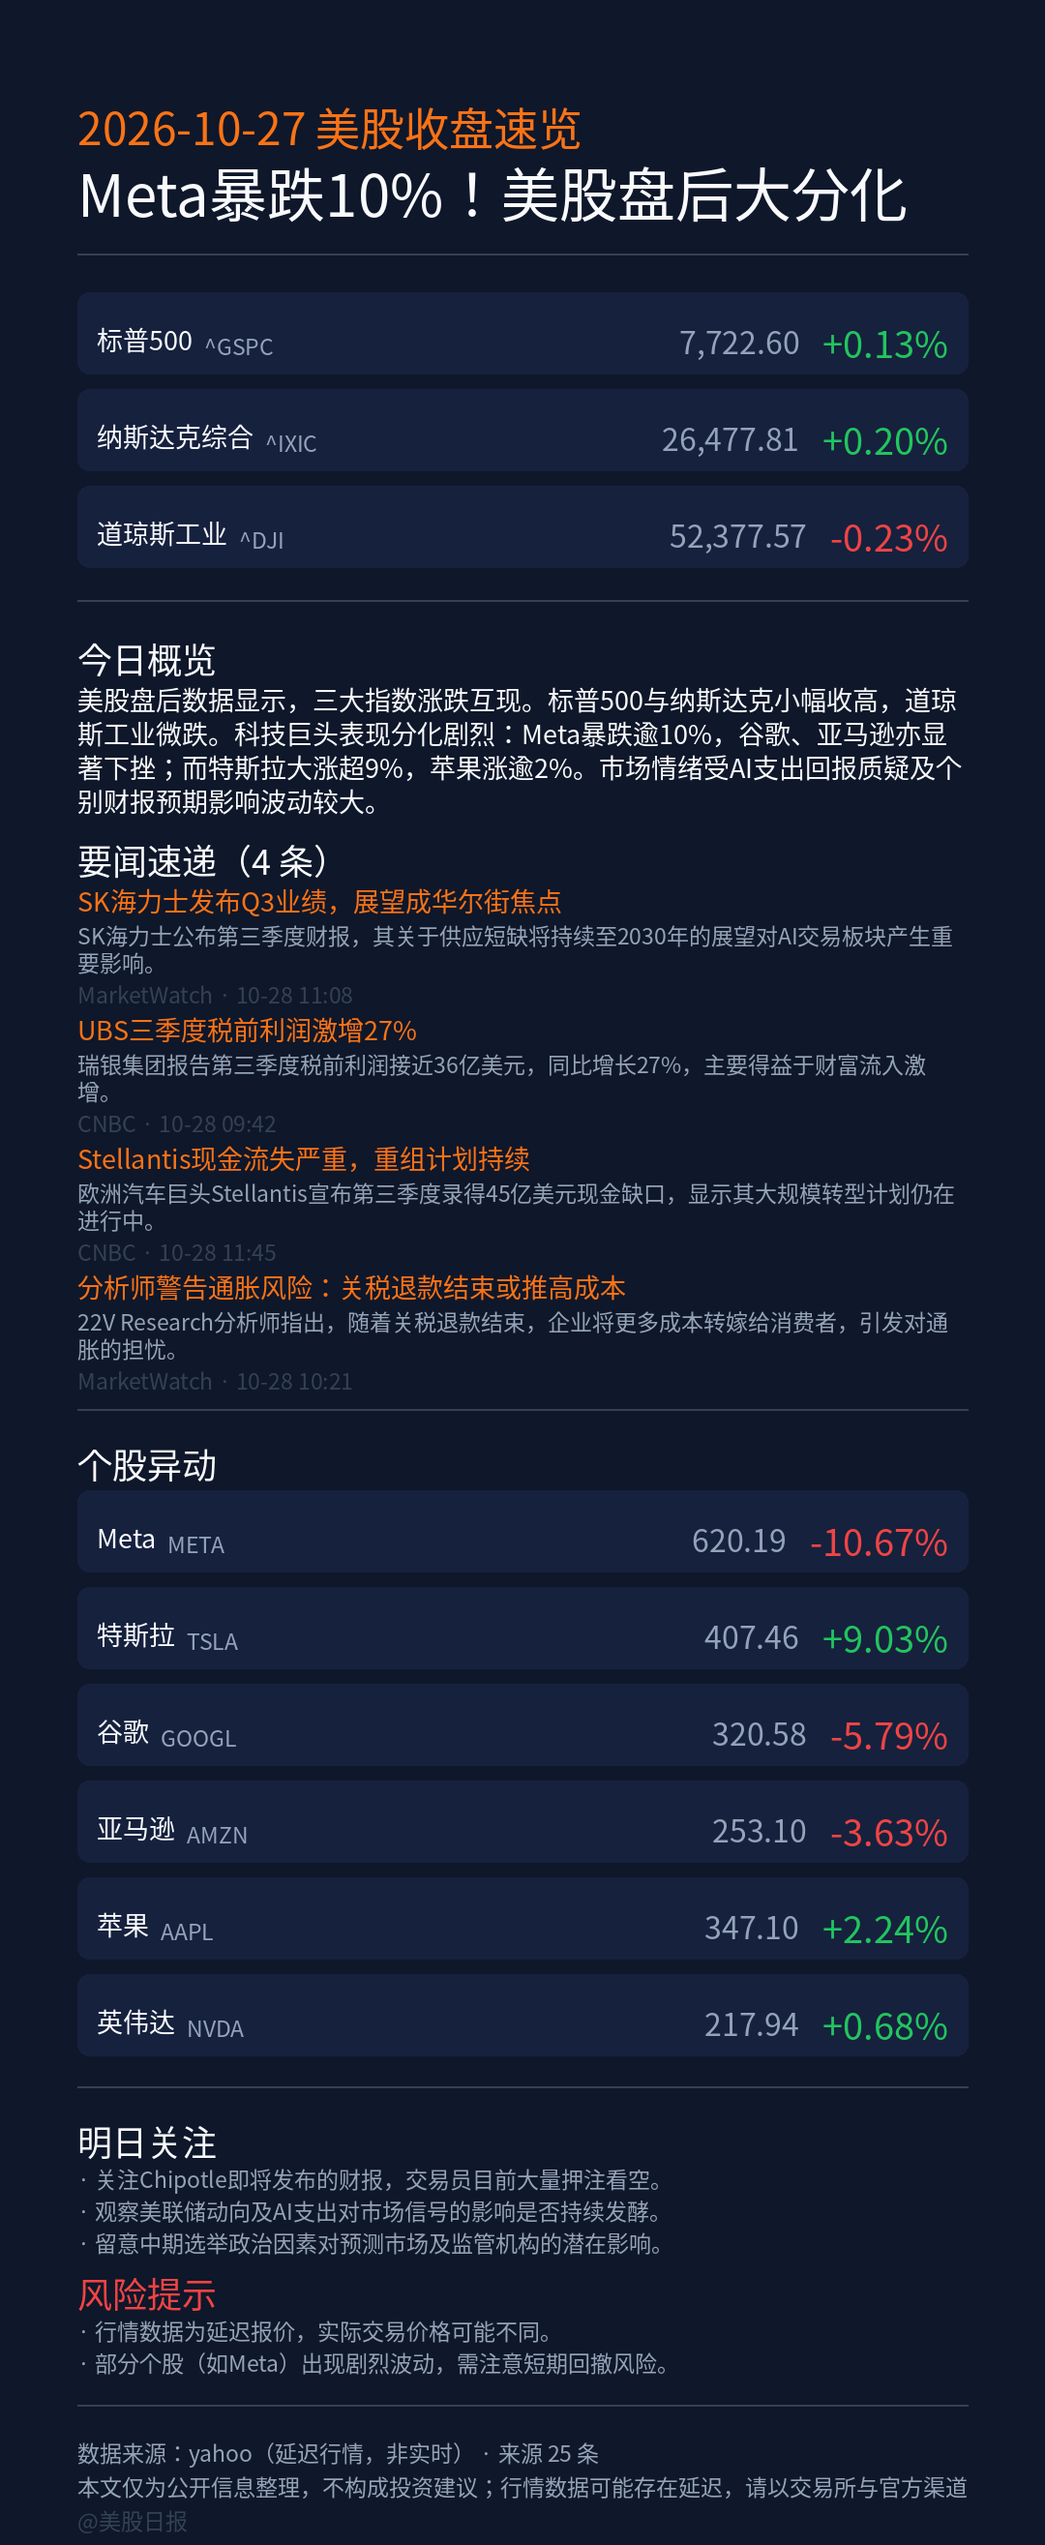
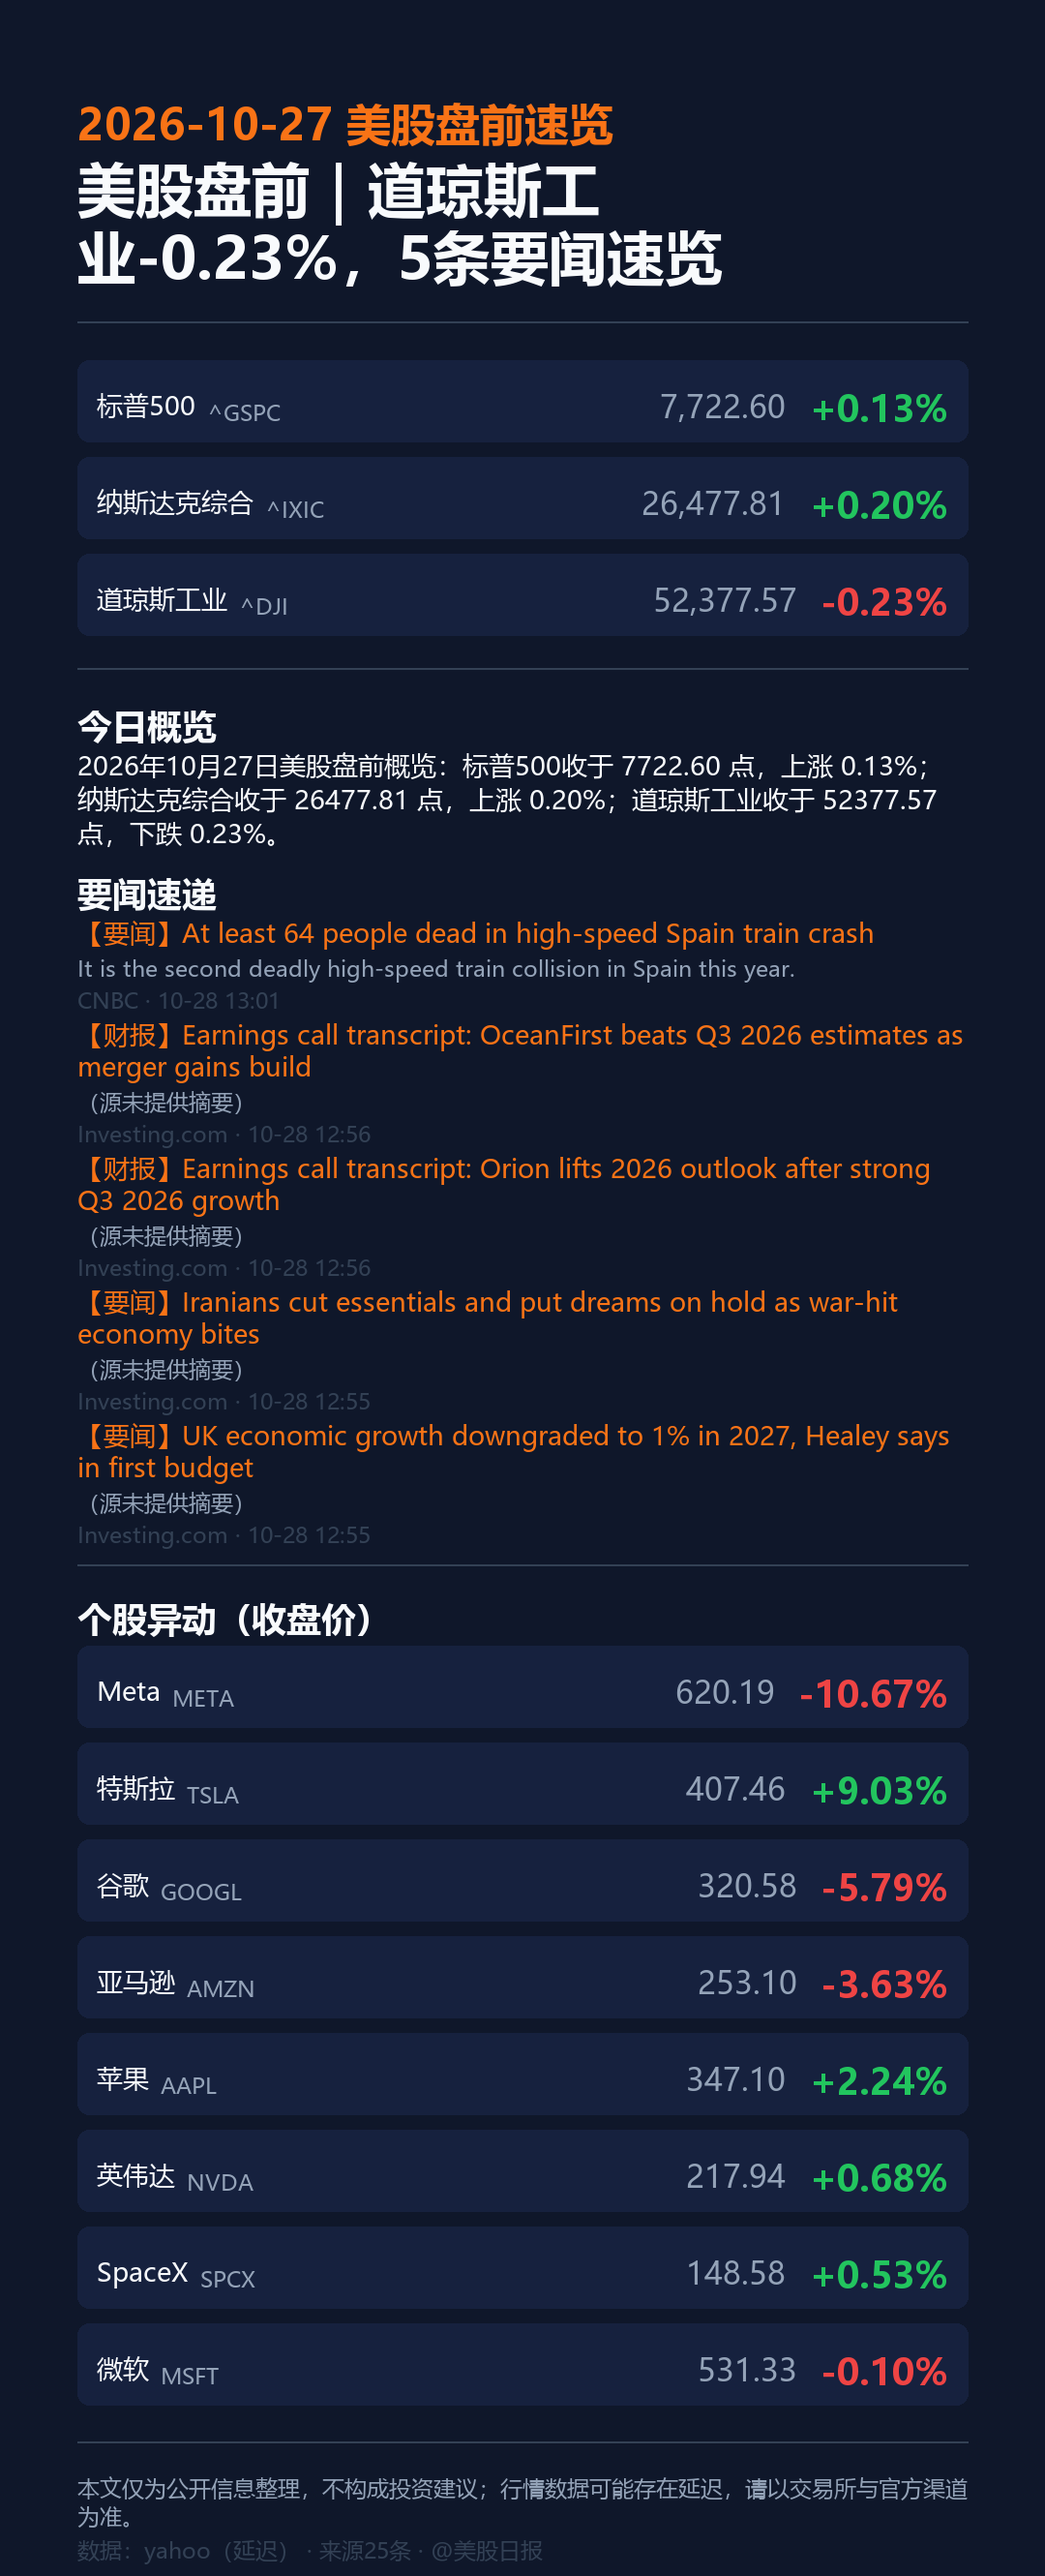
fix: SpaceX 已上市（NASDAQ: SPCX），替换占位代码并实测行情
- Yahoo 搜索确认 SPCX = Space Exploration Technologies（NASDAQ）
- 实测行情 SPCX 148.58 (+0.53%)，8 只个股全部 quality=ok
- 新闻分类别名增加 spacex/starlink

diff --git a/src/usmarket/market_data/base.py b/src/usmarket/market_data/base.py
@@ -58,9 +58,8 @@ _DISPLAY_NAMES: dict[str, str] = {
     "AMZN": "亚马逊",
     "META": "Meta",
     "TSLA": "特斯拉",
-    # SpaceX 未上市（私人公司），无公开行情：
-    # 加入 watchlist 只会得到"数据缺失"卡片，用于提示读者其非上市身份
-    "SPACEX": "SpaceX(未上市)",
+    # SpaceX 已在 NASDAQ 上市（代码 SPCX，2026-10 实测 Yahoo 行情可用）
+    "SPCX": "SpaceX",
     "AMD": "AMD",
     "AVGO": "博通",
     "TSM": "台积电",

diff --git a/src/usmarket/processors/classify.py b/src/usmarket/processors/classify.py
@@ -17,6 +17,7 @@ COMPANY_ALIASES: dict[str, tuple[str, ...]] = {
     "AMZN": ("amazon", "亚马逊"),
     "META": ("meta platforms", "facebook", "meta"),
     "TSLA": ("tesla", "特斯拉"),
+    "SPCX": ("spacex", "space exploration", "starlink", "星链"),
     "AMD": ("amd", "advanced micro"),
     "AVGO": ("broadcom", "博通"),
     "TSM": ("tsmc", "taiwan semiconductor", "台积电"),
